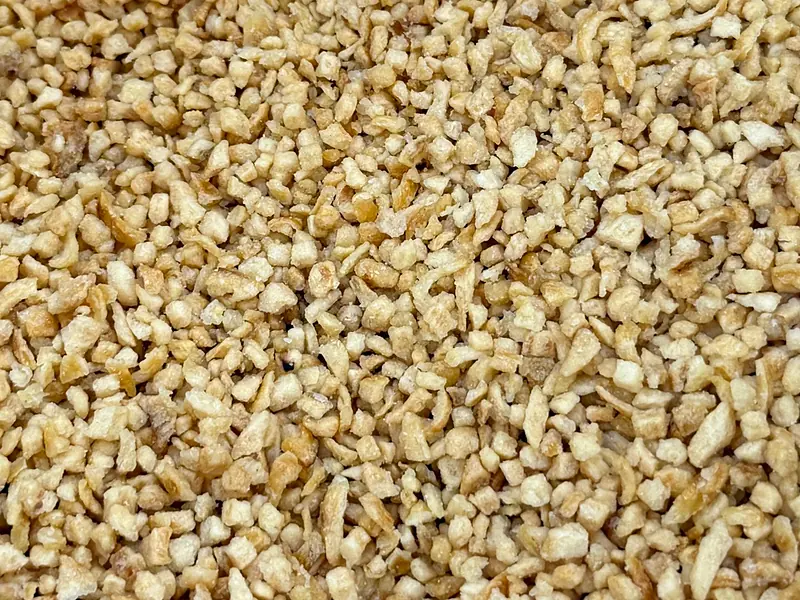
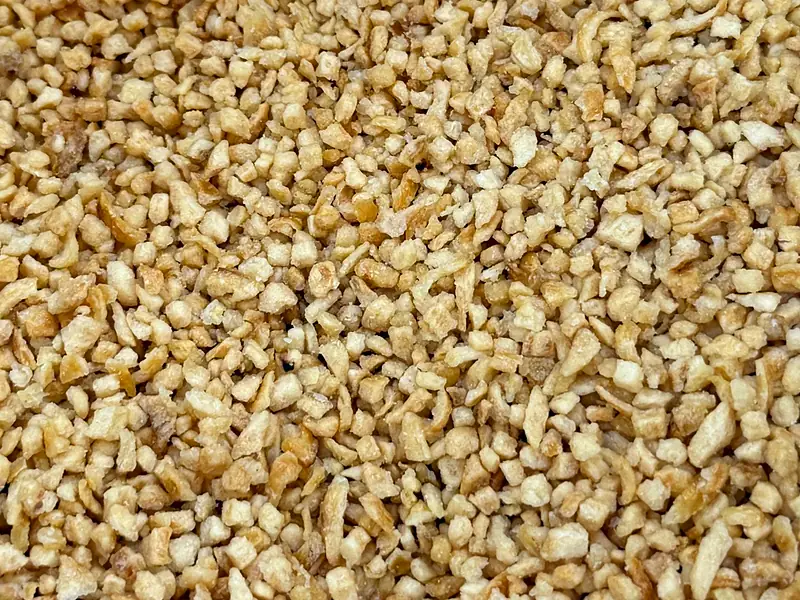
D'Lu: corrige a cor de 15 fotos (malagueta moída mais vermelha e escura, ervas menos cinza, cravo/anis menos azulados)
Claude-Session: https://claude.ai/code/session_01TP2isRzFhC1k2kUqYfETaa

Changed region(s): [[0.5, 0.3, 0.5312, 0.33], [0.4062, 0.12, 0.4375, 0.15]]

diff --git a/dados/catalogo.js b/dados/catalogo.js
@@ -38,7 +38,7 @@ window.CATALOGO = {
       { nome: 'Tempero vaca atolada', cat: 'Misturas da casa', cor: '#6f4a2f', uso: 'Mistura para o clássico prato de costela com mandioca.', so: 'dlu' },
       { nome: 'Tempero calabresa', cat: 'Misturas da casa', cor: '#a8452e', uso: 'Sabor de calabresa para farofas, caldos e massas.', so: 'dlu' },
       { nome: 'Tempero para vinagrete', foto: 'imagens/dlu/vinagrete.jpg', cat: 'Misturas da casa', cor: '#6d8a3e', uso: 'Mistura pronta para preparar o vinagrete.', so: 'dlu' },
-      { nome: 'Caldo de galinha', fotosT: { dlu: 'imagens/dlu/caldo-de-galinha.webp' }, cat: 'Misturas da casa', cor: '#d9a441', uso: 'Caldo em pó para arroz, sopas e refogados.', venda: 'a partir de 250 g · fardo de 25 kg', selo: 'Fardo 25 kg', so: 'dlu' },
+      { nome: 'Caldo de galinha', fotosT: { dlu: 'imagens/dlu/caldo-de-galinha.webp?v=2' }, cat: 'Misturas da casa', cor: '#d9a441', uso: 'Caldo em pó para arroz, sopas e refogados.', venda: 'a partir de 250 g · fardo de 25 kg', selo: 'Fardo 25 kg', so: 'dlu' },
       { nome: 'Orange pepper', cat: 'Pimentas e pápricas', cor: '#d9782d', uso: 'Pimenta com toque de laranja para peixes, frango e saladas.', so: 'dlu' },
       { nome: 'Limão defumado', cat: 'Pimentas e pápricas', cor: '#a8a03a', uso: 'Sabor de limão com toque defumado para carnes e peixes.', so: 'dlu' },
       { nome: 'Pimenta branca', cat: 'Pimentas e pápricas', cor: '#d8cfb8', uso: 'Pimenta suave e clara para molhos brancos e peixes.', so: 'dlu' },
@@ -46,7 +46,7 @@ window.CATALOGO = {
       { nome: 'Curry', cat: 'Especiarias', cor: '#d79a1c', uso: 'Mistura de especiarias para frango, arroz e molhos.', so: 'dlu' },
       { nome: 'Coentro em pó', cat: 'Especiarias', cor: '#9a8a52', uso: 'Para peixes, moquecas e pratos nordestinos.', so: 'dlu' },
       { nome: 'Coentro em grão', cat: 'Especiarias', cor: '#b3a06a', uso: 'Inteiro, para conservas, marinadas ou moer na hora.', so: 'dlu' },
-      { nome: 'Salsa desidratada', fotosT: { dlu: 'imagens/dlu/salsa-desidratada.webp' }, cat: 'Ervas', cor: '#4e7a2f', uso: 'Salsa pronta para molhos, sopas e refogados.', so: 'dlu' },
+      { nome: 'Salsa desidratada', fotosT: { dlu: 'imagens/dlu/salsa-desidratada.webp?v=2' }, cat: 'Ervas', cor: '#4e7a2f', uso: 'Salsa pronta para molhos, sopas e refogados.', so: 'dlu' },
       { nome: 'Pimenta do reino em grão', cat: 'Pimentas e pápricas', cor: '#2f2925', uso: 'Pimenta inteira para moer na hora, marinadas e conservas.', so: 'dlu' },
       { nome: 'Tempero pega esposa', cat: 'Misturas da casa', cor: '#9c3b2c', uso: 'Mistura pronta da casa. Pergunte a composição no WhatsApp.', so: 'dlu' },
       { nome: 'Cominho em grão', cat: 'Especiarias', cor: '#8f7040', uso: 'Cominho inteiro para moer na hora ou tostar em pratos árabes e indianos.', so: 'dlu' },
@@ -56,13 +56,13 @@ window.CATALOGO = {
       { nome: 'Chimichurri defumado', cat: 'Misturas da casa', cor: '#5a4a26', uso: 'O chimichurri com toque defumado, para churrasco e carnes.', so: 'dlu' },
       { nome: 'Limão natural', cat: 'Pimentas e pápricas', cor: '#cfc24a', uso: 'Sabor de limão em pó para peixe, frango e saladas.', so: 'dlu' },
       { nome: 'Açafrão temperado', cat: 'Especiarias', cor: '#d9951e', uso: 'Açafrão já temperado para arroz, frango e caldos.', so: 'dlu' },
-      { nome: 'Alho frito', fotosT: { dlu: 'imagens/dlu/alho-frito.webp' }, cat: 'Desidratados', cor: '#c9a467', uso: 'Alho crocante para arroz, farofa, saladas e finalizar pratos.', so: 'dlu' },
+      { nome: 'Alho frito', fotosT: { dlu: 'imagens/dlu/alho-frito.webp?v=2' }, cat: 'Desidratados', cor: '#c9a467', uso: 'Alho crocante para arroz, farofa, saladas e finalizar pratos.', so: 'dlu' },
       { nome: 'Colorau temperado', cat: 'Especiarias', cor: '#c0391f', uso: 'Colorau já temperado para dar cor e sabor a carnes, arroz e feijão.', so: 'dlu' },
-      { nome: 'Canela em pau', fotosT: { dlu: 'imagens/dlu/canela-em-pau.webp' }, cat: 'Especiarias', cor: '#7f4424', uso: 'Canela cortada para quentão, doces em calda, arroz-doce e chás.', so: 'dlu' },
+      { nome: 'Canela em pau', fotosT: { dlu: 'imagens/dlu/canela-em-pau.webp?v=2' }, cat: 'Especiarias', cor: '#7f4424', uso: 'Canela cortada para quentão, doces em calda, arroz-doce e chás.', so: 'dlu' },
       { nome: 'Tempero carne seca', cat: 'Misturas da casa', cor: '#7a3f28', uso: 'Mistura para carne seca, escondidinho e paçoca de carne.', so: 'dlu' },
       { nome: 'Tempero alho, salsa e cebola com bacon', cat: 'Misturas da casa', cor: '#a8603a', uso: 'Alho, salsa e cebola com sabor de bacon para feijão, farofa e arroz.', so: 'dlu' },
       { nome: 'Tempero carne de panela', cat: 'Misturas da casa', cor: '#6e3b24', uso: 'Mistura para carne de panela, ensopados e cozidos.', so: 'dlu' },
-      { nome: 'Cravo', fotosT: { dlu: 'imagens/dlu/cravo.webp' }, cat: 'Especiarias', cor: '#5a2e1e', uso: 'Cravo-da-índia para doces, quentão, caldas e carnes.', so: 'dlu' },
+      { nome: 'Cravo', fotosT: { dlu: 'imagens/dlu/cravo.webp?v=2' }, cat: 'Especiarias', cor: '#5a2e1e', uso: 'Cravo-da-índia para doces, quentão, caldas e carnes.', so: 'dlu' },
       { nome: 'Chimichurri com pimenta', cat: 'Misturas da casa', cor: '#6a5a26', uso: 'O chimichurri com um toque de pimenta, para churrasco e marinadas.', so: 'dlu' },
       { nome: 'Tempero italiano gourmet', cat: 'Misturas da casa', cor: '#5f7a33', uso: 'A versão gourmet do tempero italiano, para massas, molhos e pães.', so: 'dlu' },
       { nome: 'Mix gourmet', marca: 'Ana Foods', cat: 'Misturas da casa', cor: '#b87c2c', uso: 'Mix gourmet da marca Ana Foods.', so: 'dlu' },
@@ -96,7 +96,7 @@ window.CATALOGO = {
       { nome: 'Tomate seco', fotosT: { dlu: 'imagens/dlu/tomate-seco.webp' }, cat: 'Desidratados', cor: '#a8281c', uso: 'Tomate seco para massas, pizzas, sanduíches e antepastos.', so: 'dlu' },
       { nome: 'Tempero segredo do chefe', cat: 'Misturas da casa', cor: '#7a4a2a', uso: 'Mistura pronta da casa. Pergunte a composição no WhatsApp.', so: 'dlu' },
       { nome: 'Alho picado', marca: 'D’Lu', cat: 'Alho', cor: '#e8dcc0', uso: 'Alho já picado, pronto para refogar, sem precisar descascar.', tamanhos: ['200 g', '3 kg'], emb: true, so: 'dlu' },
-      { nome: 'Cebola crispy', fotosT: { dlu: 'imagens/dlu/cebola-crispy.webp' }, cat: 'Desidratados', cor: '#c98a3e', uso: 'Cebola frita crocante para hambúrguer, saladas, purê e finalizar pratos.', so: 'dlu' },
+      { nome: 'Cebola crispy', fotosT: { dlu: 'imagens/dlu/cebola-crispy.webp?v=2' }, cat: 'Desidratados', cor: '#c98a3e', uso: 'Cebola frita crocante para hambúrguer, saladas, purê e finalizar pratos.', so: 'dlu' },
       { nome: 'Lemon pepper defumado', cat: 'Pimentas e pápricas', cor: '#a89a3a', uso: 'O lemon pepper com toque defumado, para frango, peixe e carnes na grelha.', so: 'dlu' },
       { nome: 'Cominho com pimenta', ard: 2, cat: 'Especiarias', cor: '#7f5a30', uso: 'Cominho já misturado com pimenta para carne moída, feijão e quibe.', so: 'dlu' },
       { nome: 'Erva-doce espanhola', grupo: 'Erva-doce', tipo: 'Espanhola', cat: 'Especiarias', cor: '#9aa04a', uso: 'Erva-doce espanhola, de grão miúdo e aroma forte. Para chás, pães, bolos e molhos de tomate.', so: 'dlu' },
@@ -117,7 +117,7 @@ window.CATALOGO = {
       { nome: 'Tiras de mel', cat: 'Mel, dendê e manteiga', cor: '#d9a02a', uso: 'Tirinhas de mel a granel, para adoçar o dia ou aliviar a garganta.', so: 'dlu' },
       { nome: 'Extrato de própolis verde 70%', cat: 'Mel, dendê e manteiga', cor: '#6a7a2a', uso: 'Extrato de própolis verde com 70% de concentração, em frasco.', tamanhos: ['30 ml'], emb: true, so: 'dlu' },
       { nome: 'Noz-moscada em caroço', cat: 'Especiarias', cor: '#7a5234', uso: 'Noz-moscada inteira para ralar na hora em molho branco, purê, bolos e quentão.', so: 'dlu' },
-      { nome: 'Proteína de bacon', fotosT: { dlu: 'imagens/dlu/proteina-de-bacon.webp' }, cat: 'Desidratados', cor: '#b0503a', uso: 'Pedacinhos sabor bacon para feijão, farofa, saladas, massas e batata.', so: 'dlu' },
+      { nome: 'Proteína de bacon', fotosT: { dlu: 'imagens/dlu/proteina-de-bacon.webp?v=2' }, cat: 'Desidratados', cor: '#b0503a', uso: 'Pedacinhos sabor bacon para feijão, farofa, saladas, massas e batata.', so: 'dlu' },
       { nome: 'Composto da Vovó', cat: 'Diversos', cor: '#8a6a3a', uso: 'Composto da Vovó. Pergunte os detalhes no WhatsApp.', emb: true, so: 'dlu' },
       { nome: 'Cebola em flocos', cat: 'Desidratados', cor: '#dcc69a', uso: 'Cebola desidratada em tiras (flocos) para sopas, molhos, carnes e farofas.', so: 'dlu' },
       { nome: 'Azeite de dendê', marca: 'Satélite', cat: 'Mel, dendê e manteiga', cor: '#d9601a', uso: 'Azeite de dendê para moqueca, acarajé, vatapá e bobó.', tamanhos: ['200 ml', '900 ml'], emb: true, so: 'dlu' },
@@ -125,7 +125,7 @@ window.CATALOGO = {
       { nome: 'Tempero bem bolado', cat: 'Misturas da casa', cor: '#8e5030', uso: 'Mistura pronta da casa. Pergunte a composição no WhatsApp.', so: 'dlu' },
       { nome: 'Cebola em pó', marca: 'Jomil', cat: 'Desidratados', cor: '#dcc89c', uso: 'Cebola em pó para molhos, sopas, carnes e massas.', tamanhos: ['pacote 500 g'], emb: true, so: 'dlu' },
       { nome: 'Tempero família', cat: 'Misturas da casa', cor: '#9a5a2c', uso: 'Mistura pronta da casa. Pergunte a composição no WhatsApp.', so: 'dlu' },
-      { nome: 'Anis-estrelado', fotosT: { dlu: 'imagens/dlu/anis-estrelado.webp' }, cat: 'Especiarias', cor: '#6a3a24', uso: 'Estrela inteira para chás, caldas, doces, quentão e pratos orientais.', so: 'dlu' },
+      { nome: 'Anis-estrelado', fotosT: { dlu: 'imagens/dlu/anis-estrelado.webp?v=2' }, cat: 'Especiarias', cor: '#6a3a24', uso: 'Estrela inteira para chás, caldas, doces, quentão e pratos orientais.', so: 'dlu' },
       { nome: 'Farinha de beterraba', cat: 'Desidratados', cor: '#8a1f3a', uso: 'Beterraba em pó para sucos, massas, pães e para dar cor natural às receitas.', so: 'dlu' },
       { nome: 'Gengibre moído', fotosT: { dlu: 'imagens/dlu/gengibre-moido.webp' }, cat: 'Especiarias', cor: '#c9a050', uso: 'Gengibre em pó para chás, biscoitos, carnes, molhos e pratos orientais.', so: 'dlu' },
       { nome: 'Pimenta do reino condimentada', marca: 'Jomil', cat: 'Pimentas e pápricas', cor: '#3a2f28', uso: 'Pimenta do reino já temperada, para carnes, frango, molhos e o dia a dia.', tamanhos: ['pacote 500 g'], emb: true, so: 'dlu' },
@@ -165,9 +165,9 @@ window.CATALOGO = {
       { nome: 'Moringa em pó', cat: 'Diversos', cor: '#5a7a2a', uso: 'Folha de moringa em pó para sucos, vitaminas e receitas.', so: 'dlu' },
       { nome: 'Tapioca', marca: 'Lopes', cat: 'Diversos', cor: '#ece6da', uso: 'Goma de tapioca pronta para fazer tapioca na frigideira.', tamanhos: ['500 g', '1 kg'], emb: true, so: 'dlu' },
       { nome: 'Tempero do Chefe', marca: 'Tempera Bem', cat: 'Misturas da casa', cor: '#7d4a2a', uso: 'O Tempero do Chefe da marca Tempera Bem, a granel.', so: 'dlu' },
-      { nome: 'Ervas finas', fotosT: { dlu: 'imagens/dlu/ervas-finas.webp' }, cat: 'Ervas', cor: '#5a7a3a', uso: 'Mistura de ervas para omeletes, molhos, peixes, frango e manteigas temperadas.', so: 'dlu' },
+      { nome: 'Ervas finas', fotosT: { dlu: 'imagens/dlu/ervas-finas.webp?v=2' }, cat: 'Ervas', cor: '#5a7a3a', uso: 'Mistura de ervas para omeletes, molhos, peixes, frango e manteigas temperadas.', so: 'dlu' },
       { nome: 'Mostarda em grão', fotosT: { dlu: 'imagens/dlu/mostarda-em-grao.webp' }, cat: 'Especiarias', cor: '#c9a23a', uso: 'Semente de mostarda para conservas, picles, molhos e carnes.', so: 'dlu' },
-      { nome: 'Mostarda moída', fotosT: { dlu: 'imagens/dlu/mostarda-moida.webp' }, cat: 'Especiarias', cor: '#d8b23a', uso: 'Mostarda em pó para molhos, marinadas, maioneses e temperos.', so: 'dlu' },
+      { nome: 'Mostarda moída', fotosT: { dlu: 'imagens/dlu/mostarda-moida.webp?v=2' }, cat: 'Especiarias', cor: '#d8b23a', uso: 'Mostarda em pó para molhos, marinadas, maioneses e temperos.', so: 'dlu' },
       { nome: 'Farinha de uva', cat: 'Diversos', cor: '#5a2a3a', uso: 'Farinha de casca e semente de uva para vitaminas, iogurte e receitas.', so: 'dlu' },
       { nome: 'Caldo de bacon', fotosT: { dlu: 'imagens/dlu/caldo-de-bacon.webp' }, cat: 'Misturas da casa', cor: '#b0603a', uso: 'Caldo em pó sabor bacon para feijão, sopas, arroz e farofas.', so: 'dlu' },
       { nome: 'Pimenta rosa', fotosT: { dlu: 'imagens/dlu/pimenta-rosa.webp' }, cat: 'Pimentas e pápricas', cor: '#d0506a', uso: 'Grãos perfumados e levemente adocicados para peixes, saladas, molhos e drinks.', so: 'dlu' },
@@ -249,7 +249,7 @@ window.CATALOGO = {
       { nome: 'Páprica doce', marca: 'Tempera Bem', cat: 'Pimentas e pápricas', cor: '#c8442a', uso: 'Páprica doce em pacote, para cor e sabor suave em frango, arroz e maionese.', tamanhos: ['pacote 500 g'], emb: true, so: 'dlu' },
       { nome: 'Própolis verde com menta', cat: 'Mel, dendê e manteiga', cor: '#5a8a4a', uso: 'Própolis verde com menta, em frasco.', emb: true, so: 'dlu' },
       { nome: 'Polpa de malagueta', marca: 'Bella Minas', ard: 4, cat: 'Molhos', cor: '#b81e14', uso: 'Malagueta batida em polpa, para temperar carnes, molhos, caldos e feijão.', tamanhos: ['200 g'], emb: true, so: 'dlu' },
-      { nome: 'Pimenta malagueta moída', ard: 4, fotosT: { dlu: 'imagens/dlu/pimenta-malagueta-moida.webp' }, cat: 'Pimentas e pápricas', cor: '#b02a18', uso: 'Malagueta seca e moída, a granel, para molhos, carnes e conservas.', so: 'dlu' },
+      { nome: 'Pimenta malagueta moída', ard: 4, fotosT: { dlu: 'imagens/dlu/pimenta-malagueta-moida.webp?v=2' }, cat: 'Pimentas e pápricas', cor: '#b02a18', uso: 'Malagueta seca e moída, a granel, para molhos, carnes e conservas.', so: 'dlu' },
       { nome: 'Goma ice eucalipto', cat: 'Diversos', cor: '#4a9a8a', uso: 'Balas de goma sabor eucalipto, refrescantes, a granel.', so: 'dlu' },
       { nome: 'Tempero sabor limão em pó', marca: 'Tempera Bem', cat: 'Misturas da casa', cor: '#cfc24a', uso: 'Sabor de limão em pó para peixe, frango, saladas e legumes.', tamanhos: ['pacote 500 g'], emb: true, so: 'dlu' },
       { nome: 'Pimenta branca moída', marca: 'Tempera Bem', cat: 'Pimentas e pápricas', cor: '#d8cfb8', uso: 'Pimenta branca moída para molho branco, purês, peixes e pratos claros.', tamanhos: ['pacote 500 g'], emb: true, so: 'dlu' },
@@ -277,7 +277,7 @@ window.CATALOGO = {
       { nome: 'Azedinho de cereja', cat: 'Diversos', cor: '#c4203a', uso: 'Bala azedinha sabor cereja, a granel.', so: 'dlu' },
       { nome: 'Molho de pimenta', marca: 'Gota', ard: 3, cat: 'Molhos', cor: '#b0201a', uso: 'Molho de pimenta para petiscos, carnes, feijão e caldos.', tamanhos: ['150 ml'], emb: true, so: 'dlu' },
       { nome: 'Páprica picante', marca: 'Tempera Bem', ard: 3, cat: 'Pimentas e pápricas', cor: '#a82a18', uso: 'Páprica com ardência, em pacote, para carnes, molhos, batatas e petiscos.', tamanhos: ['pacote 500 g'], emb: true, so: 'dlu' },
-      { nome: 'Chipotle', ard: 3, fotosT: { dlu: 'imagens/dlu/chipotle.webp' }, cat: 'Pimentas e pápricas', cor: '#6a2a1a', uso: 'Pimenta jalapeño defumada e moída, para carnes, molhos, chili e comida mexicana.', so: 'dlu' },
+      { nome: 'Chipotle', ard: 3, fotosT: { dlu: 'imagens/dlu/chipotle.webp?v=2' }, cat: 'Pimentas e pápricas', cor: '#6a2a1a', uso: 'Pimenta jalapeño defumada e moída, para carnes, molhos, chili e comida mexicana.', so: 'dlu' },
       { nome: 'Tapioca premium', marca: 'Muniz', cat: 'Diversos', cor: '#ece6da', uso: 'Goma de tapioca premium pronta para fazer tapioca na frigideira.', tamanhos: ['500 g'], emb: true, so: 'dlu' },
       { nome: 'Pimenta malagueta', ard: 4, cat: 'Pimentas em conserva', cor: '#c4241b', uso: 'Malagueta em conserva, ardida e saborosa.', tamanhos: ['30 g', '90 g', '220 g', '450 g', '1 L'], emb: true, marca: 'Nativa', so: 'dlu' },
       { nome: 'Pimenta cumari', ard: 4, cat: 'Pimentas em conserva', cor: '#d6491a', uso: 'Pimentinha pequena e bem ardida, em conserva.', tamanhos: ['30 g', '90 g', '1 L'], emb: true, marca: 'Nativa', so: 'dlu' },
@@ -327,9 +327,9 @@ window.CATALOGO = {
 { nome: 'Jataí do Nordeste', cat: 'Mel, dendê e manteiga', cor: '#c9781a', uso: 'Xarope sabor mel: xarope de glicose com aroma natural de mel. Produto de origem nordestina.', tamanhos: ['250 g', '680 g', '1,2 kg'], emb: true, fotos: { vks: 'imagens/vks/jatai.webp' } },
       { nome: 'Manteiga de garrafa', cat: 'Mel, dendê e manteiga', cor: '#e6c34a', uso: 'Para carne de sol, cuscuz, macaxeira e feijão verde.', tamanhos: ['250 ml', '500 ml', '900 ml', '1 L'], emb: true },
       { nome: 'Alho descascado', cat: 'Alho', cor: '#efe3c4', uso: 'Dentes de alho já descascados, prontos para usar. Pacote de 1 kg.', venda: 'pacote de 1 kg', unidade: 'pacote(s) de 1 kg', selo: 'Pacote 1 kg', so: 'vks' },
-      { nome: 'Manjericão', fotosT: { dlu: 'imagens/dlu/manjericao.webp' }, cat: 'Ervas', cor: '#3f6b2f', uso: 'Molho de tomate, pizza, massas e saladas.' },
-      { nome: 'Alecrim', cat: 'Ervas', cor: '#5b7a4a', uso: 'Carnes assadas, batatas, frango e pães.', fotosT: { dlu: 'imagens/dlu/alecrim.webp', vks: 'imagens/vks/alecrim.webp' } },
-      { nome: 'Tomilho', fotosT: { dlu: 'imagens/dlu/tomilho.webp' }, cat: 'Ervas', cor: '#6b7d4a', uso: 'Carnes, aves, legumes assados e caldos.', so: 'dlu' },
+      { nome: 'Manjericão', fotosT: { dlu: 'imagens/dlu/manjericao.webp?v=2' }, cat: 'Ervas', cor: '#3f6b2f', uso: 'Molho de tomate, pizza, massas e saladas.' },
+      { nome: 'Alecrim', cat: 'Ervas', cor: '#5b7a4a', uso: 'Carnes assadas, batatas, frango e pães.', fotosT: { dlu: 'imagens/dlu/alecrim.webp?v=2', vks: 'imagens/vks/alecrim.webp' } },
+      { nome: 'Tomilho', fotosT: { dlu: 'imagens/dlu/tomilho.webp?v=2' }, cat: 'Ervas', cor: '#6b7d4a', uso: 'Carnes, aves, legumes assados e caldos.', so: 'dlu' },
       { nome: 'Coentro em folha', fotosT: { dlu: 'imagens/dlu/coentro-folha.webp' }, cat: 'Ervas', cor: '#4a7a3a', uso: 'Folhas desidratadas para moquecas, peixes e caldos.', so: 'dlu' },
       { nome: 'Hibisco', cat: 'Chás', cor: '#8e1c3a', uso: 'Flor desidratada para chá, quente ou gelado.', fotosT: { vks: 'imagens/vks/hibisco.webp' } },
       { nome: 'Camomila', cat: 'Chás', cor: '#e2c45a', uso: 'Flores desidratadas para chá calmante.', fotosT: { vks: 'imagens/vks/camomila.webp' } },
